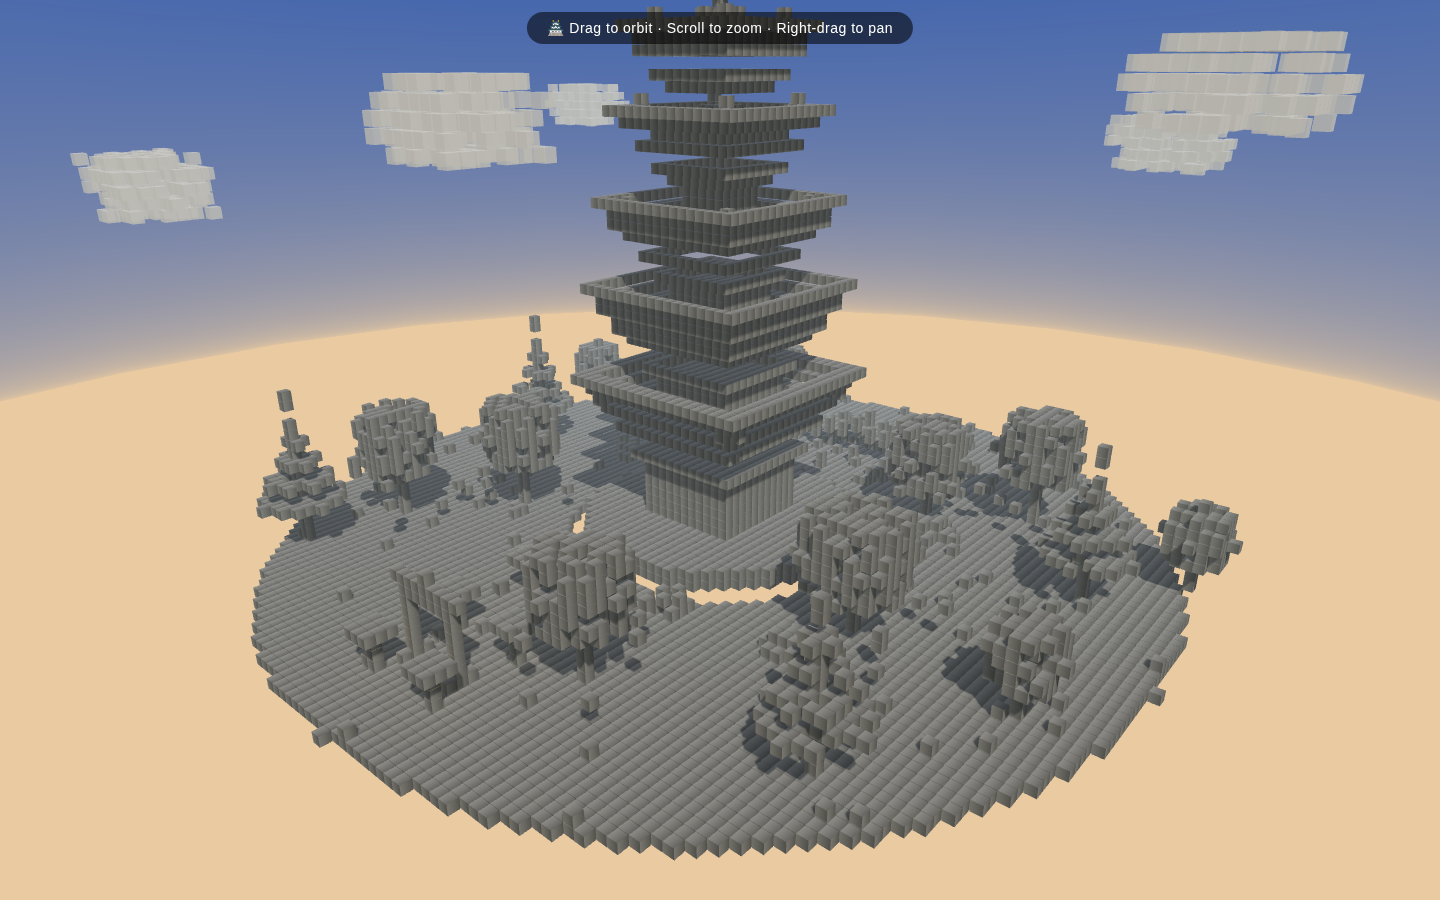
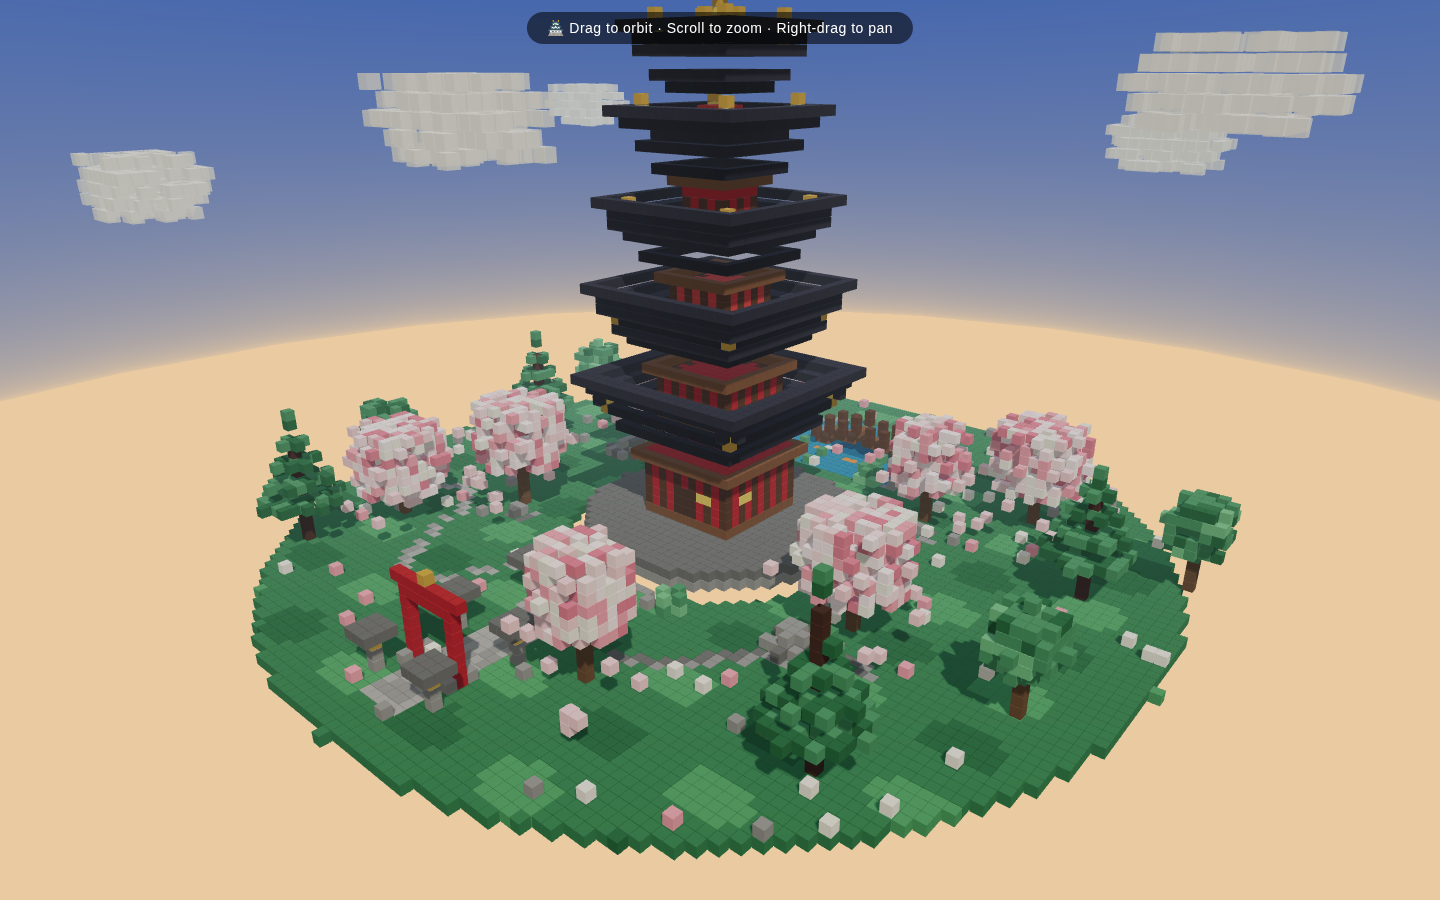
Repair both Tess pixel test renders

diff --git a/pixeltest/index.html b/pixeltest/index.html
@@ -361,9 +361,9 @@
           <img src="/pixeltest/assets/tess4-q6k-mtpq8.png" alt="Tess-4 voxel pagoda garden with a tiered pagoda, trees, paths, clouds, and garden structures">
         </a>
         <div class="body">
-          <span class="tag">Tess-4 · Pass 1 · Failed color render</span>
+          <span class="tag">Tess-4 · Pass 1 · Repaired</span>
           <h2>Tess-4 27B Q6_K + Native MTP Q8</h2>
-          <p class="model">Failed: voxel colors were assigned as shared geometry vertex colors, so the scene rendered monochrome. Original output preserved.</p>
+          <p class="model">Original failed: voxel colors were assigned as shared geometry vertex colors, so the scene rendered monochrome. Repaired for viewing.</p>
           <div class="actions">
             <a class="button primary" href="/pixeltest/tess4-q6k-mtpq8/">Open test</a>
             <a class="button" href="https://huggingface.co/migtissera/Tess-4-27B-GGUF" target="_blank" rel="noopener noreferrer">Model card ↗</a>
@@ -376,9 +376,9 @@
           <img src="/pixeltest/assets/tess4-q6k-mtpq8-pass2.png" alt="Tess-4 pass 2 loading screen from the generated voxel pagoda garden">
         </a>
         <div class="body">
-          <span class="tag">Tess-4 · Pass 2 · Render error</span>
+          <span class="tag">Tess-4 · Pass 2 · Repaired</span>
           <h2>Tess-4 27B Q6_K + Native MTP Q8</h2>
-          <p class="model">Failed: JavaScript reassigned a constant and stopped on the loading screen. Original output preserved.</p>
+          <p class="model">Original failed: JavaScript reassigned a constant and stopped on the loading screen. Repaired for viewing.</p>
           <div class="actions">
             <a class="button primary" href="/pixeltest/tess4-q6k-mtpq8-pass2/">Open test</a>
             <a class="button" href="https://huggingface.co/migtissera/Tess-4-27B-GGUF" target="_blank" rel="noopener noreferrer">Model card ↗</a>

diff --git a/pixeltest/tess4-q6k-mtpq8/index.html b/pixeltest/tess4-q6k-mtpq8/index.html
@@ -739,23 +739,9 @@ buildPagoda();
 buildGarden();
 
 // ── Create Instanced Mesh ──
-const uniqueColors = [...new Set(voxelData.map(v => v.color))];
-const colorMap = new Map();
-uniqueColors.forEach((c, i) => colorMap.set(c, i));
-
-const colorArray = new Float32Array(voxelData.length * 3);
-voxelData.forEach((v, i) => {
-  const col = new THREE.Color(v.color);
-  colorArray[i * 3] = col.r;
-  colorArray[i * 3 + 1] = col.g;
-  colorArray[i * 3 + 2] = col.b;
-});
-
 const mergedGeo = new THREE.BoxGeometry(0.95, 0.95, 0.95);
-mergedGeo.setAttribute('color', new THREE.BufferAttribute(colorArray, 3));
 
 const material = new THREE.MeshStandardMaterial({
-  vertexColors: true,
   roughness: 0.8,
   metalness: 0.1,
   flatShading: true,
@@ -766,13 +752,16 @@ voxels.castShadow = true;
 voxels.receiveShadow = true;
 
 const dummy = new THREE.Object3D();
+const instanceColor = new THREE.Color();
 voxelData.forEach((v, i) => {
   dummy.position.set(v.x, v.y, v.z);
   dummy.updateMatrix();
   voxels.setMatrixAt(i, dummy.matrix);
+  voxels.setColorAt(i, instanceColor.set(v.color));
 });
 
 voxels.instanceMatrix.needsUpdate = true;
+voxels.instanceColor.needsUpdate = true;
 scene.add(voxels);
 
 // ── Sky dome ──

diff --git a/pixeltest/tess4-q6k-mtpq8-pass2/index.html b/pixeltest/tess4-q6k-mtpq8-pass2/index.html
@@ -172,8 +172,6 @@ function voxel(x, y, z, color) {
 }
 
 function buildScene() {
-  colorBuckets && (colorBuckets = {});
-
   // ── Ground ───────────────────────────────────────────────────────
   const GROUND_R = 60;
   for (let x = -GROUND_R; x <= GROUND_R; x++) {
